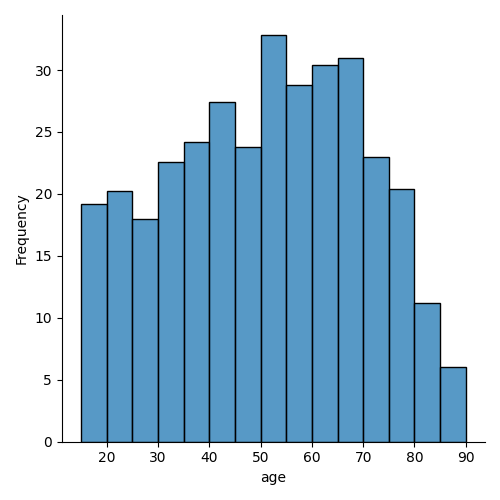
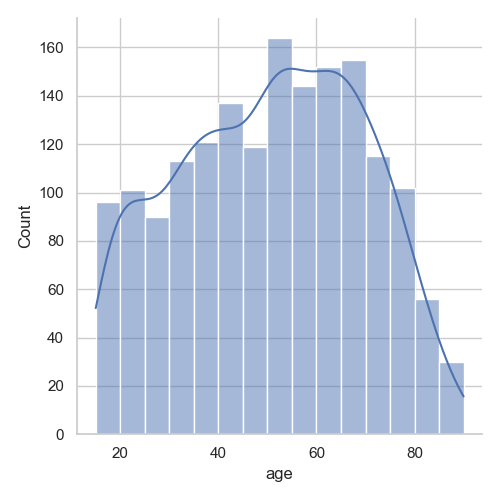
Update figures and add visualizations in descriptives.py

diff --git a/ESS11/data_analysis/descriptives.py b/ESS11/data_analysis/descriptives.py
@@ -23,13 +23,11 @@ slice = df_pol.loc[:, ['political_trust', 'educational_level']]
 slice2 = slice.groupby(by = ['educational_level'])
 desc_slice2 = slice2.describe()
 
-plt.figure(figsize=(10, 6))
-sns.lineplot(data=df_pol, x='educational_level', y='political_trust')
-plt.savefig(fr'C:\Python homedirectory\Portfolio_git\ESS11\reports\figures\political_trust_line.png')
-
+sns.set(style='whitegrid')
 #Exploration plots
-plot_categoricals = ['gender', 'educational_level', 'activity_work', 'voted']
-plot_continous = ['age', 'political_trust']
+plt.figure(figsize=(10, 6))
+
+plot_categoricals = ['educational_level', 'activity_work', 'voted']
 
 for feature in plot_categoricals:
     plt.figure(figsize=(10, 6))
@@ -37,10 +35,30 @@ for feature in plot_categoricals:
     plt.savefig(fr'C:\Python homedirectory\Portfolio_git\ESS11\reports\figures\{feature}.png')
     plt.close()
 
-for feature in plot_continous:
-    plt.figure(figsize=(10, 6))
-    sns.displot(data=df_pol, x=feature, stat='frequency')
-    plt.savefig(fr'C:\Python homedirectory\Portfolio_git\ESS11\reports\figures\{feature}.png')
-    plt.close()
-
+#age
+sns.displot(data=df_pol, x='age', kind='hist', kde=True)
+plt.savefig(r'C:\Python homedirectory\Portfolio_git\ESS11\reports\figures\age.png')
+plt.close()
+sns.displot(data=df_pol, x='political_trust', kind='hist', kde=True)
+plt.savefig(r'C:\Python homedirectory\Portfolio_git\ESS11\reports\figures\political_trust.png')
+plt.close()
+#gender
+sns.catplot(data=df_pol, x='gender', kind='count',stat='percent')
+plt.savefig(r'C:\Python homedirectory\Portfolio_git\ESS11\reports\figures\gender.png')
+plt.close()
+sns.catplot(data=df_pol, x='educational_level', col='gender', kind='count')
+plt.savefig(r'C:\Python homedirectory\Portfolio_git\ESS11\reports\figures\gender_education.png')
+plt.close()
+#edu trust boxplot
+sns.catplot(data=df_pol, x='educational_level', y='political_trust', kind='box')
+plt.savefig(r'C:\Python homedirectory\Portfolio_git\ESS11\reports\figures\education_political_trust.png')
+plt.close()
+#Lineplot relation education and trust
+sns.lineplot(data=df_pol, x='educational_level', y='political_trust')
+plt.savefig(r'C:\Python homedirectory\Portfolio_git\ESS11\reports\figures\political_trust_line.png')
+plt.close()
+#trust edu for gender
+sns.lineplot(data=df_pol, y='political_trust', x='educational_level', hue='gender')
+plt.savefig(r'C:\Python homedirectory\Portfolio_git\ESS11\reports\figures\political_trust_line_gender.png')
+plt.close()
 #Divide per voted political party and compare % to latest election

diff --git a/ESS11/README.md b/ESS11/README.md
@@ -17,3 +17,13 @@ I will start with answering the following research question:
 1. What is the relationship between educational level and political voting in the Netherlands?
 
 **Work in progress**
+
+Some descriptive figures 
+![Age](./Portfolio_git/ESS11/reports/figures/age.png)
+![Gender](./Portfolio_git/ESS11/reports/figures/gender.png)]
+
+![Education!](./Portfolio_git/ESS11/reports/figures/educational_level.png)
+
+![Political_trust](./Portfolio_git/ESS11/reports/figures/political_trust.png)
+![political_trust_line](./Portfolio_git/ESS11/reports/figures/political_trust_line.png)
+![political_trust_edu](./Portfolio_git/ESS11/reports/figures/education_political_trust.png)
